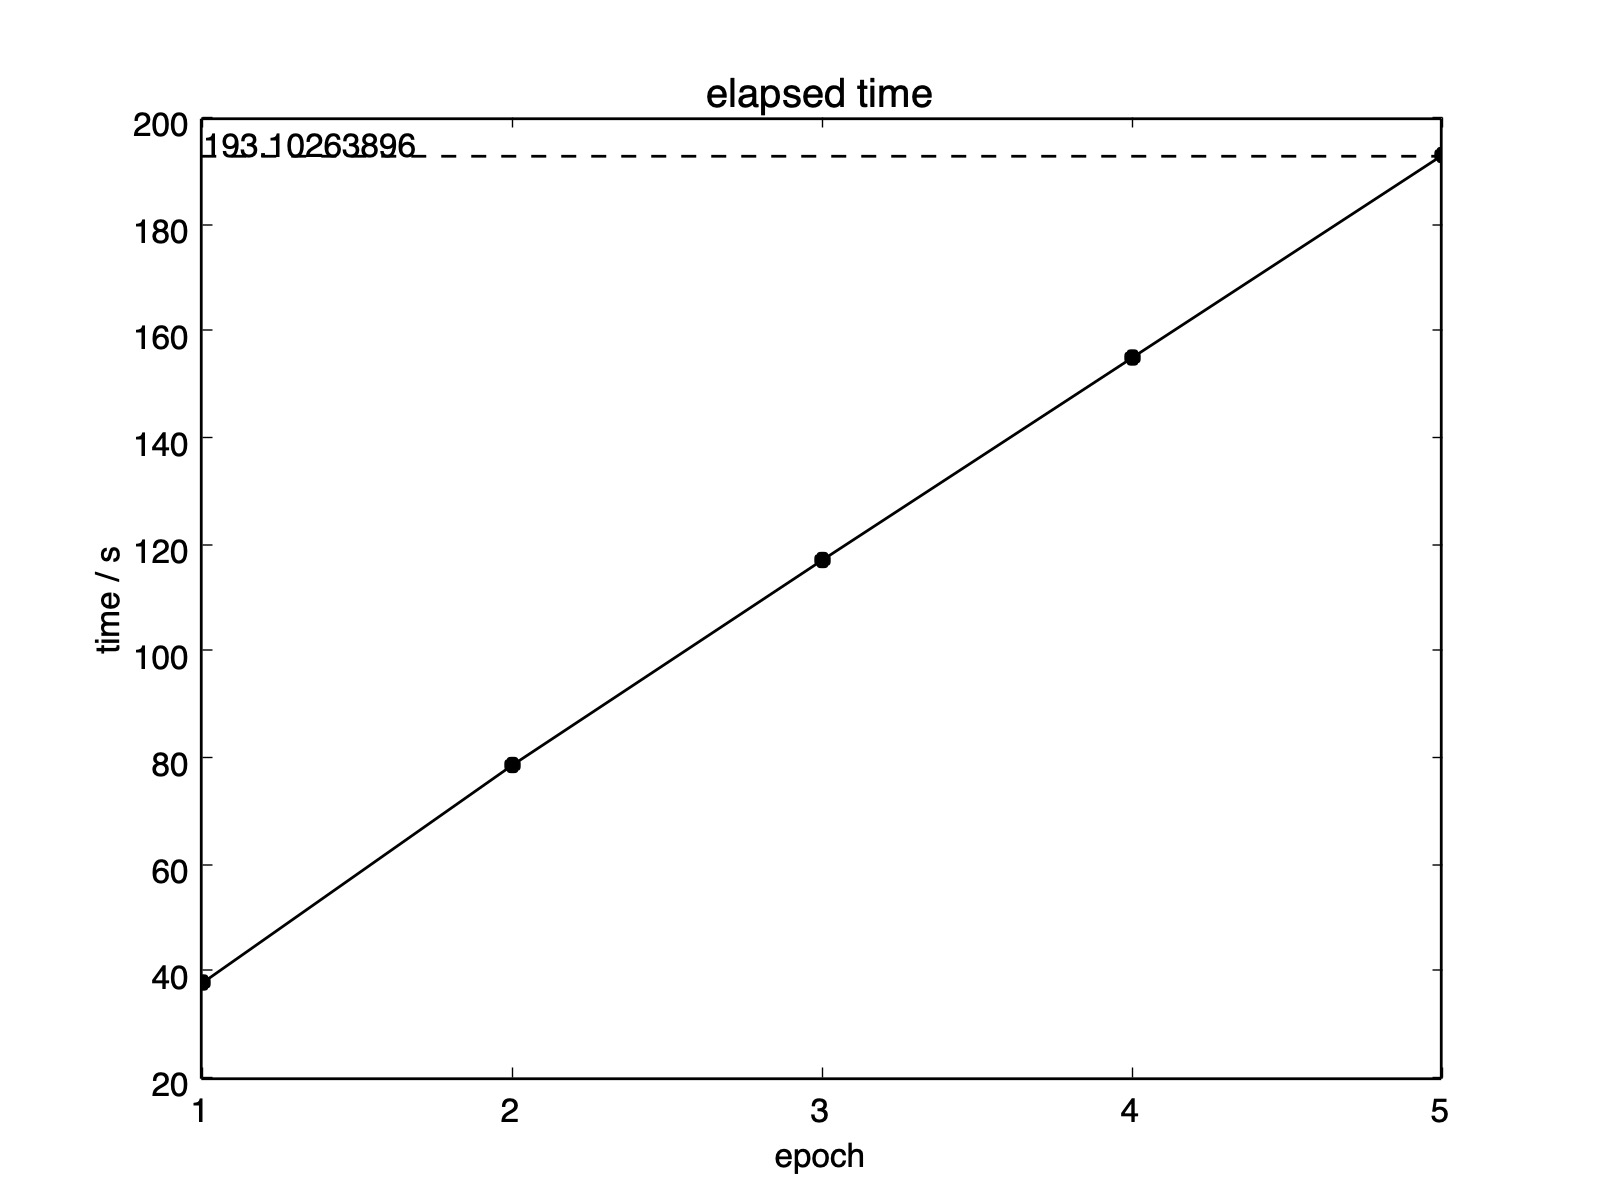
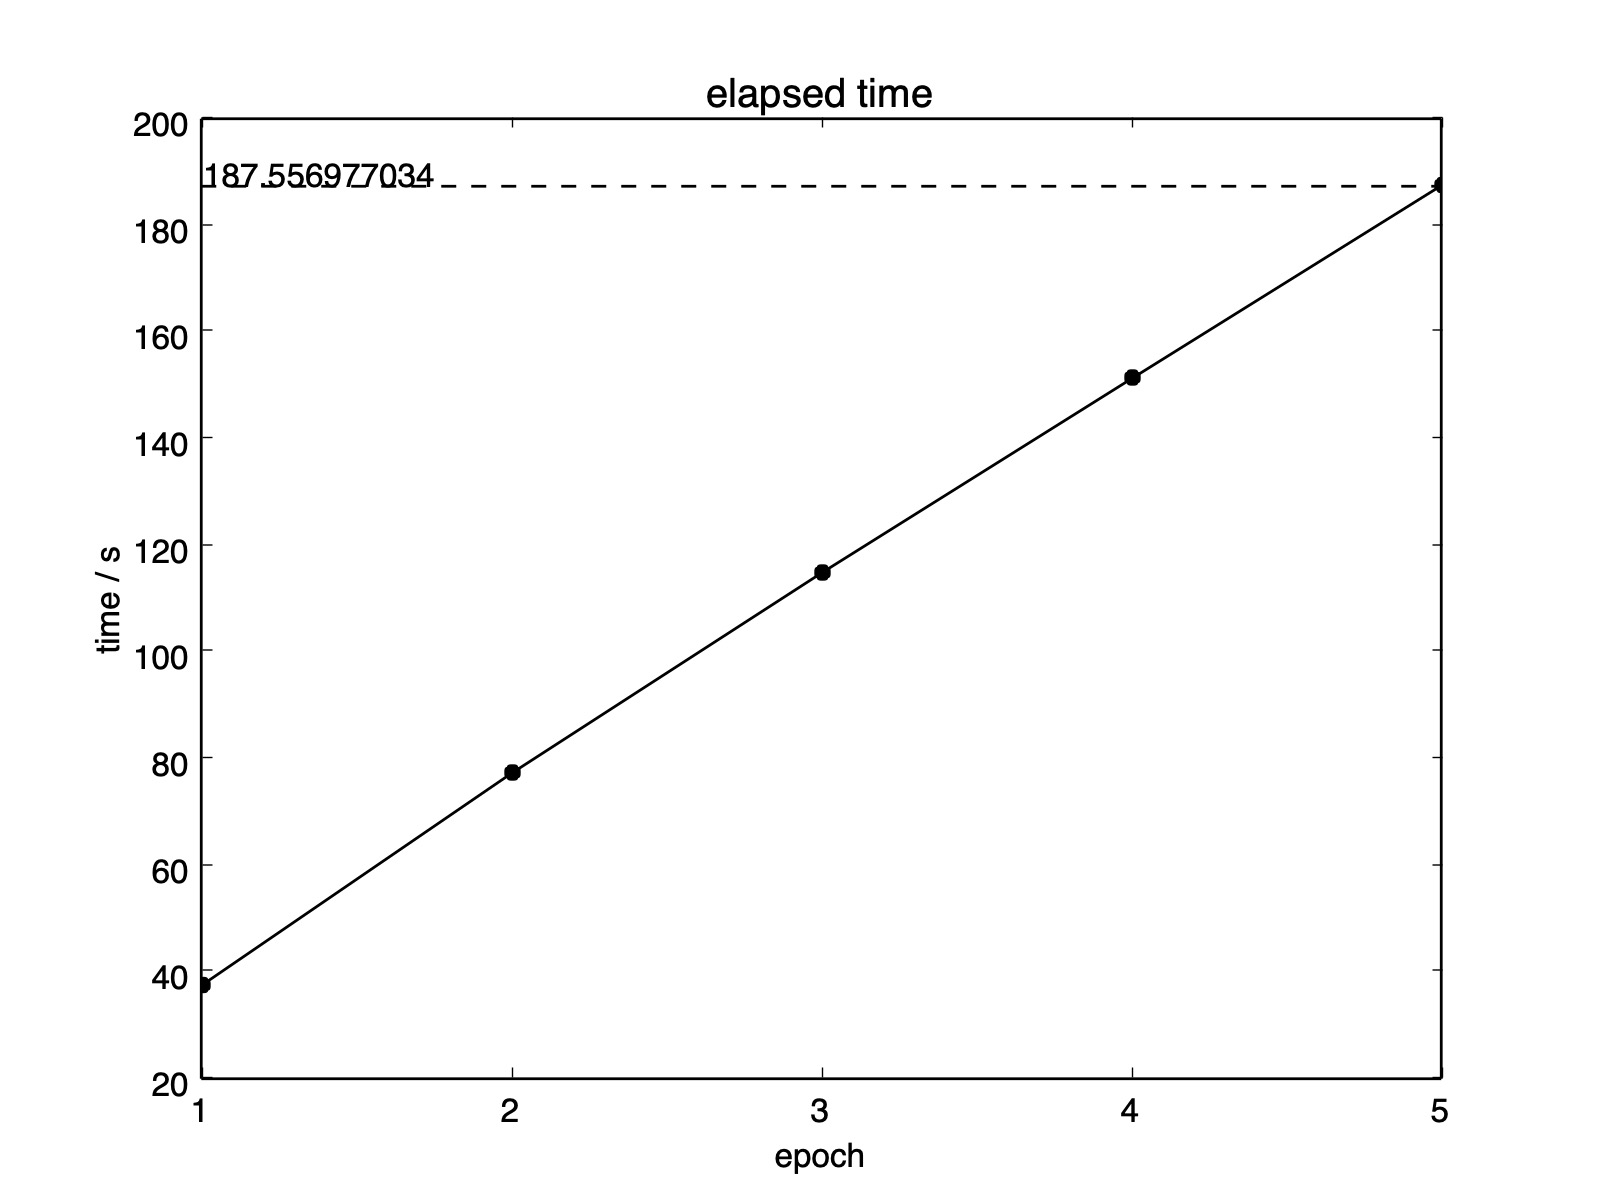
chore: 実験終了

diff --git a/main.py b/main.py
@@ -16,9 +16,9 @@ class Runner():
     self.model = self.genModel()
     self.classifier = Classifier(self.model)
     self.train, self.test = getMNIST(self.args.noise)
-    self.batchsize = 100  # 100
-    self.n_train = 60000  # 60000
-    self.n_test = 10000  # 10000
+    self.batchsize = 100
+    self.n_train = 60000
+    self.n_test = 10000
     self.epoch = 5
 
     self.train_acc = []
@@ -28,12 +28,30 @@ class Runner():
     self.epoch_time = [0]
 
   def genModel(self):
+    # Simple Model
+    # model = Sequential()
+    # model.addLayer(ConvolutionLayer(1, 4))
+    # model.addLayer(ReLULayer())
+    # model.addLayer(AvgPoolingLayer(4))
+    # model.addLayer(FlattenLayer())
+    # model.addLayer(LinearLayer(7 * 7 * 4, 10))
+    # return model
+
+    # MoreLayer
     model = Sequential()
     model.addLayer(ConvolutionLayer(1, 4))
     model.addLayer(ReLULayer())
-    model.addLayer(AvgPoolingLayer(4))
+    model.addLayer(ConvolutionLayer(4, 4))
+    model.addLayer(ReLULayer())
+    model.addLayer(MaxPoolingLayer(2))
+    model.addLayer(ReLULayer())
+    model.addLayer(ConvolutionLayer(4, 8))
+    model.addLayer(ReLULayer())
+    model.addLayer(ConvolutionLayer(8, 8))
+    model.addLayer(ReLULayer())
+    model.addLayer(AvgPoolingLayer(2))
     model.addLayer(FlattenLayer())
-    model.addLayer(LinearLayer(7 * 7 * 4, 10))
+    model.addLayer(LinearLayer(7 * 7 * 8, 10))
     return model
 
   def training(self):

diff --git a/util.py b/util.py
@@ -1,4 +1,5 @@
 import os
+import sys
 import csv
 import argparse
 
@@ -110,3 +111,39 @@ def plotTime(name, epoch, data):
   plt.text(1.01, data[-1] + 0.01, str(data[-1]))
   plt.savefig(os.path.join('result', name, 'time.jpg'))
   plt.clf()
+
+
+def plotNoise(name):
+  noise = [0, 5, 10, 15, 20, 25]
+  train = ([], [])
+  test = ([], [])
+  with open(os.path.join('result', 'result.csv')) as f:
+    reader = csv.reader(f)
+    rows = []
+    for row in reader:
+      rows.append(row)
+    for row in rows[-6:]:
+      train[0].append(row[1])
+      train[1].append(row[2])
+      test[0].append(row[3])
+      test[1].append(row[4])
+
+  i = 0
+  for data in [train[0], test[0]]:
+    plt.title('train accuracy' if i == 0 else 'test accuracy')
+    plt.xlabel('noise / %')
+    plt.ylabel('accuracy')
+    plt.xlim([0, 25])
+    plt.ylim([0, 1])
+    plt.xticks(noise)
+    plt.plot(noise, data, 'ro-')
+    print(data)
+    plt.savefig(
+        os.path.join('result', name,
+                     'train_accuracy_noise.jpg' if i == 0 else 'test_accuracy_noise.jpg'))
+    plt.clf()
+    i += 1
+
+
+if __name__ == '__main__':
+  plotNoise(sys.argv[1])
